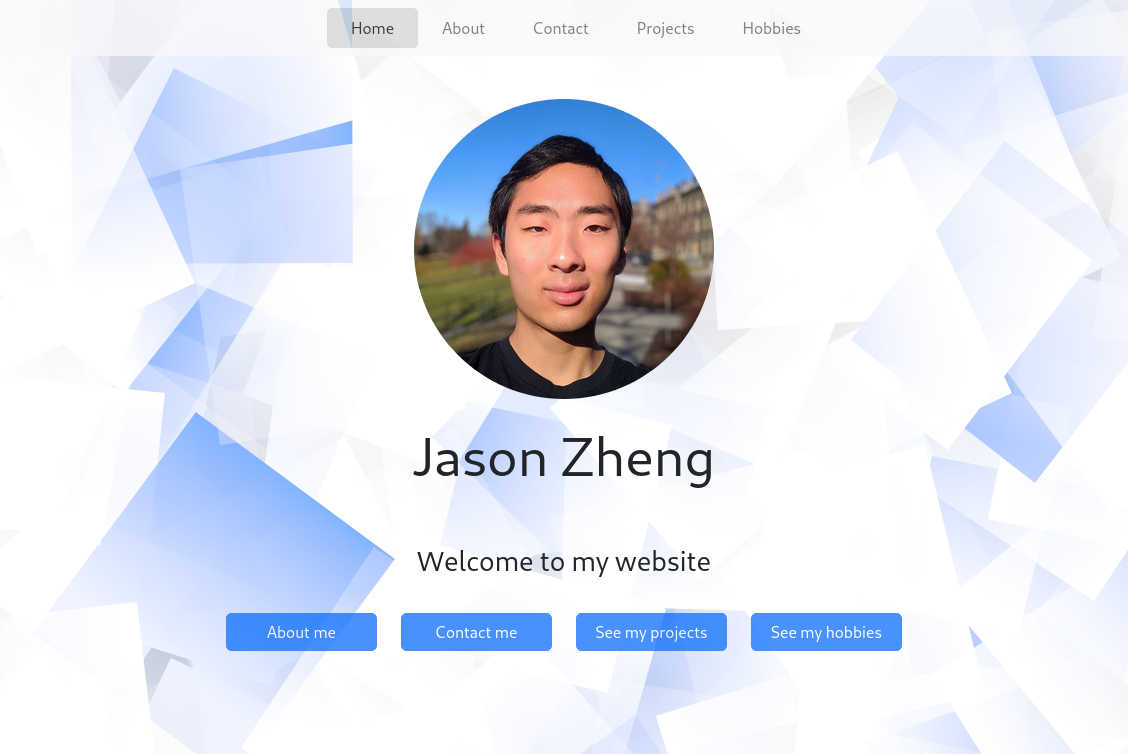
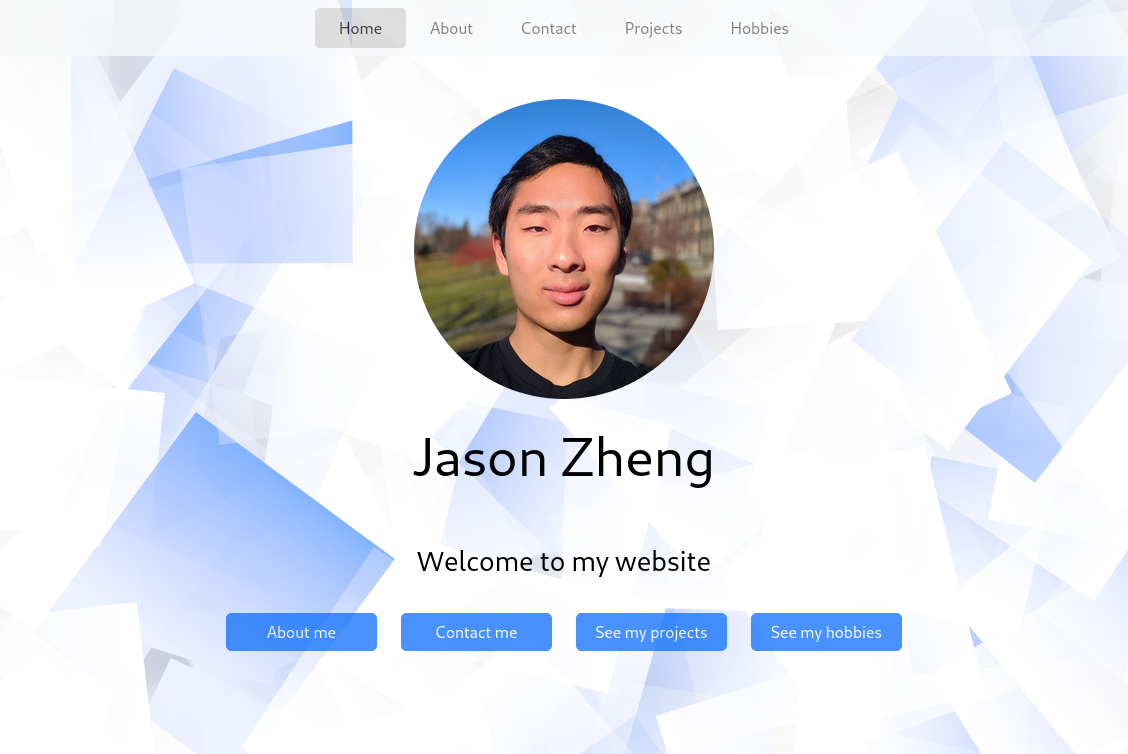
Remove dark theme

diff --git a/src/lib/organisms/Contact.svelte b/src/lib/organisms/Contact.svelte
@@ -8,7 +8,7 @@
     <LinkButton href="https://github.com/jasozh/">
       <div class="tw-flex tw-gap-1">
         <svg
-          class="w-6 h-6 text-gray-800 dark:text-white"
+          class="w-6 h-6 text-gray-800"
           aria-hidden="true"
           xmlns="http://www.w3.org/2000/svg"
           width="24"
@@ -29,7 +29,7 @@
     <LinkButton href="https://www.linkedin.com/in/jason-zheng-07a4a5223/">
       <div class="tw-flex tw-gap-1">
         <svg
-          class="w-6 h-6 text-gray-800 dark:text-white"
+          class="w-6 h-6 text-gray-800"
           aria-hidden="true"
           xmlns="http://www.w3.org/2000/svg"
           width="24"
@@ -51,7 +51,7 @@
     <LinkButton href="https://cornell.joinhandshake.com/users/33101352">
       <div class="tw-flex tw-gap-1">
         <svg
-          class="w-6 h-6 text-gray-800 dark:text-white"
+          class="w-6 h-6 text-gray-800"
           aria-hidden="true"
           xmlns="http://www.w3.org/2000/svg"
           width="24"
@@ -74,7 +74,7 @@
     <LinkButton href="https://www.youtube.com/channel/UCpDZ0IkIDqkXK8ZTJfTx2sA">
       <div class="tw-flex tw-gap-1">
         <svg
-          class="w-6 h-6 text-gray-800 dark:text-white"
+          class="w-6 h-6 text-gray-800"
           aria-hidden="true"
           xmlns="http://www.w3.org/2000/svg"
           width="24"
@@ -95,7 +95,7 @@
     <LinkButton href="https://musescore.com/user/38882263">
       <div class="tw-flex tw-gap-1">
         <svg
-          class="w-6 h-6 text-gray-800 dark:text-white"
+          class="w-6 h-6 text-gray-800"
           aria-hidden="true"
           xmlns="http://www.w3.org/2000/svg"
           width="24"

diff --git a/src/lib/atoms/LinkButton.svelte b/src/lib/atoms/LinkButton.svelte
@@ -4,7 +4,7 @@
 
 <a
   {href}
-  class="tw-inline-flex tw-w-full tw-items-center tw-rounded-lg tw-border tw-border-gray-200 tw-bg-gray-50 tw-p-2 tw-text-base tw-font-medium tw-text-gray-500 hover:tw-bg-gray-100 hover:tw-text-gray-900 dark:tw-bg-gray-800 dark:tw-text-gray-400 dark:hover:tw-bg-gray-700 dark:hover:tw-text-white"
+  class="tw-inline-flex tw-w-full tw-items-center tw-rounded-lg tw-border tw-border-gray-200 tw-bg-gray-50 tw-p-2 tw-text-base tw-font-medium tw-text-gray-500 hover:tw-bg-gray-100 hover:tw-text-gray-900"
 >
   <span><slot /></span>
 </a>
